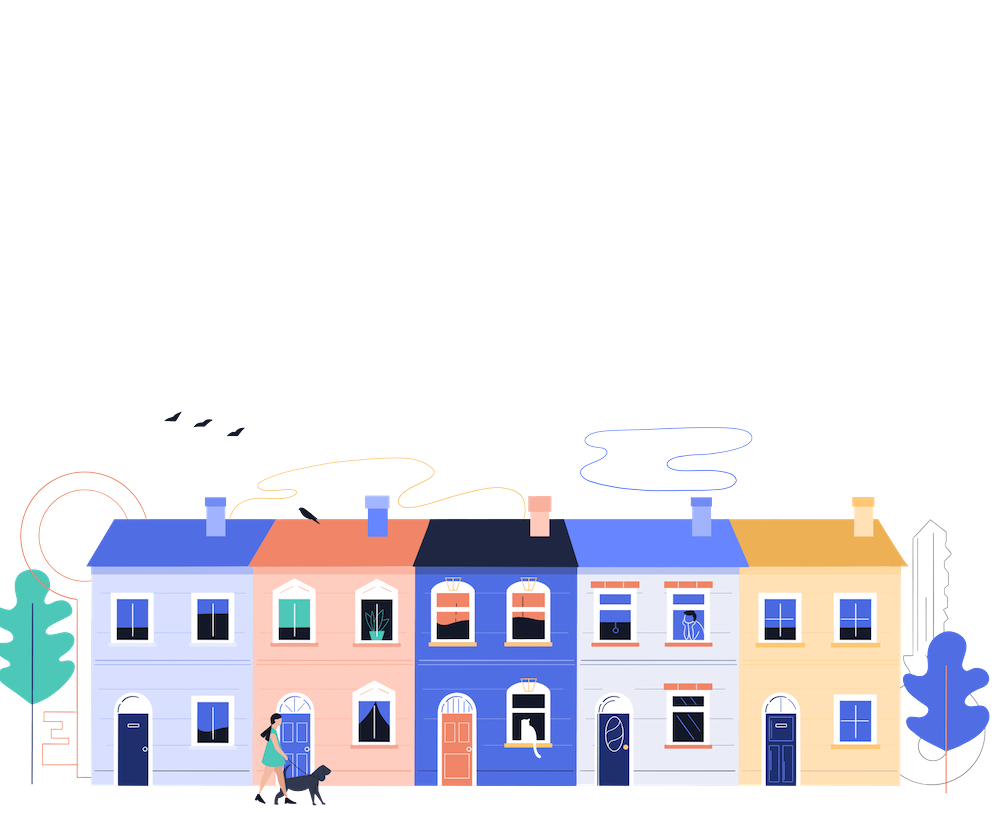
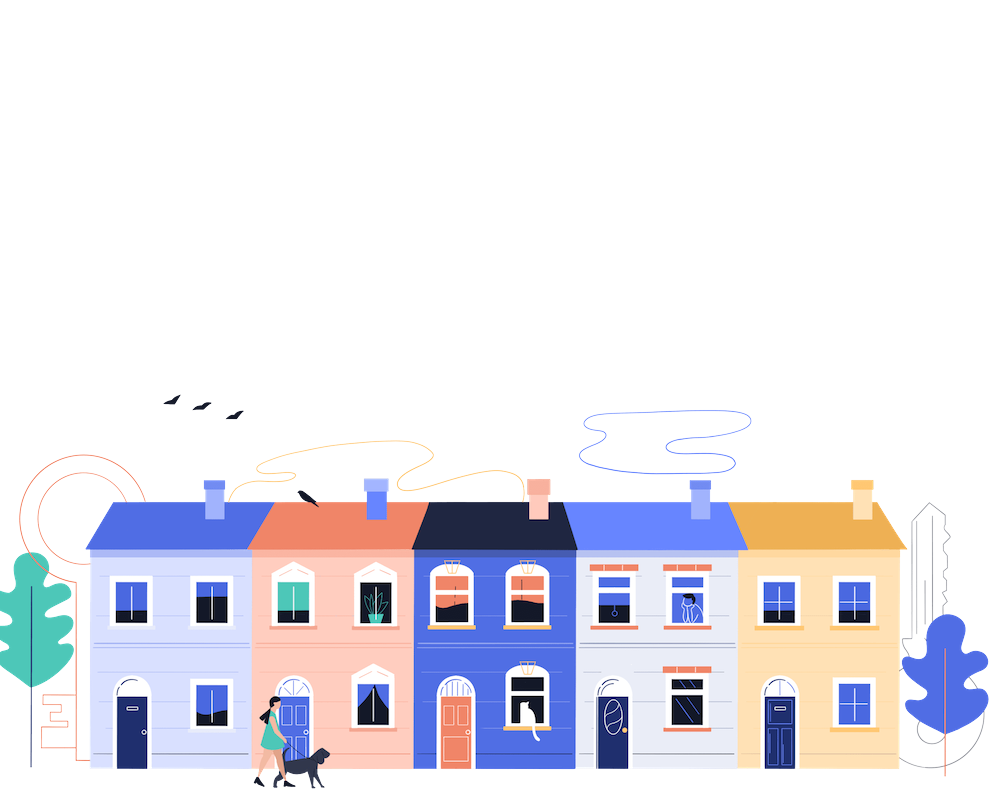
responsive tablet

diff --git a/front-end/src/assets/css/general.css b/front-end/src/assets/css/general.css
@@ -493,8 +493,7 @@ body {
 .bg-stretch .text {
   padding-top: 0;
   align-items: center;
-  
-  border: 1px solid red;
+
 }
 
 @media (max-width: 650px) {
@@ -503,6 +502,14 @@ body {
     background-size: contain;
     background-repeat: no-repeat;
     background-position: center;
+    padding-top: 200px;
+    align-items: flex-start;
+
+  }
+
+  .bg-stretch .text {
+    align-items: flex-start;
+   
   }
 
 
@@ -510,8 +517,12 @@ body {
     margin-top: 30px;
   }
 
-  .Hero p {
-    font-size: 2.4rem;
+  .bg-stretch .text h1 {
+    font-size: 6vw;
+  }
+
+  .bg-stretch .text p {
+    font-size: 2vw;
     padding-top: 10px;
   }
   
